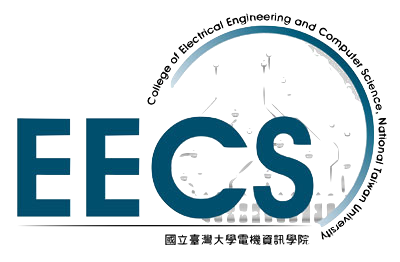
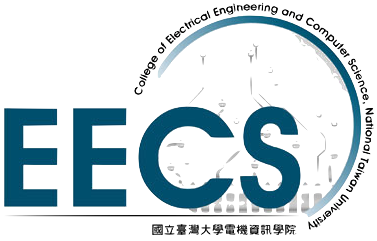
Update about page images

diff --git a/_pages/about.md b/_pages/about.md
@@ -20,21 +20,35 @@ I have developed two [Bioconductor](https://www.bioconductor.org/) R packages. T
 
 I also love cycling, hiking, traveling, and developing Unity games etc.
 
-{{ base_path }}/images/anu_logo.png
+<br>
+<div class="demo" style="display: table; width: 100%; table-layout: fixed; ">
+    <span style="display: table-cell; text-align: center;">
+      <img src="/images/NTU.png" style="height:160px">
+    </span>
+    <span style="display: table-cell; text-align: center;">
+      <img src="/images/NTU_EECS.png" style="height:160px">
+    </span>
+    <span style="display: table-cell; text-align: center;">
+      <img src="/images/CGM_LOGO.png" style="height:160px">
+    </span>
+</div>
+
+<div class="demo" style="margin-top: 30px;display: table; width: 100%; table-layout: fixed; ">
+    <span style="display: table-cell; text-align: center;">
+      <img src="images/anu_logo_small.png" style="height:160px">
+    </span>
+    <span style="display: table-cell; text-align: center;">
+      <img src="/images/ANU_CECS.jpg" style="height:160px">
+    </span>
+    <span style="display: table-cell; text-align: center;">
+      <img src="/images/iis_logo.jpg" style="height:160px">
+    </span>
+</div>
 
 
 
-<img src="/images/bioconductor.jpg">
 
-<img src="/images/NTU.png" style="width:180px;height:180px">
-<img src="/images/NTU_EECS.png">
 
-<img src="images/anu_logo.png" style="width:180px;height:180px">
-<img src="/images/ANU_CECS.jpg" style="width:180px;height:180px">
-
-<img src="/images/iis_logo.jpg" style="width:180px;height:180px">
-
-<img src="/images/CGM_LOGO.png" style="width:180px;height:180px">
 
 <!-- <img src="{{ base_path }}/images/anu_logo.png" style="width:130px;height:120px">
 <img src="{{ base_path }}/images/ANU_CECS.jpg" style="width:130px;height:120px">
